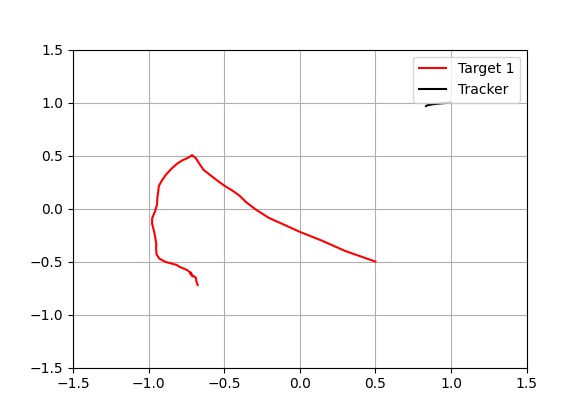
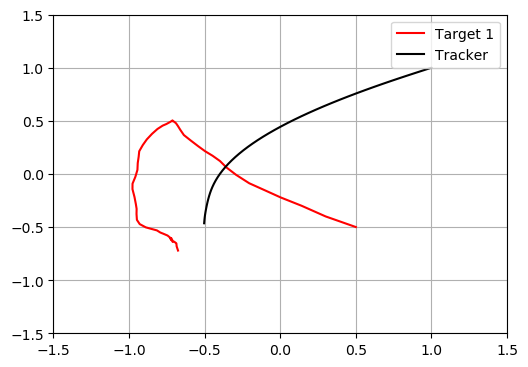
Ex1 debug + points plot

diff --git a/src/task_1/ex1.py b/src/task_1/ex1.py
@@ -1,3 +1,4 @@
+#%%
 import cvxpy as cp
 import numpy as np
 from scipy.io import loadmat
@@ -14,16 +15,16 @@ columns = ['x', 'y']
 df1 = pd.DataFrame(t1_data, columns=columns)
 
 
-T = 50
+T = 60
 A = np.array([ [1, 0, 0.2, 0], [0, 1, 0, 0.2], [0, 0, 0.8, 0], [0, 0, 0, 0.8] ])
 B = np.array([ [0, 0], [0, 0], [0.2, 0], [0, 0.2] ])
 x_0 = np.array([1, 1, 0, 0])
 E = np.array([ [1, 0, 0, 0], [0, 1, 0, 0] ])
-u = np.array([1, 1])
-y = 0.01
+y = 0.001
+
 x = cp.Variable((T, 4))
 u = cp.Variable((T-1, 2))
-cost = 0
+
 TE = 0
 CE = 0
 constr = [x[0] == x_0]
@@ -31,8 +32,7 @@ q1 = np.array(t1_data)
 
 for t in range(T-1):
     TE += cp.norm(E @ x[t] - q1[t], 'inf')
-    CE += y * cp.sum_squares(u[t])
-    cost = TE + CE
+    CE += cp.sum_squares(u[t])
     constr += [x[t + 1] == A @ x[t] + B @ u[t]]
 
 TE += cp.norm(E @ x[T-1] - q1[T-1], "inf")
@@ -46,37 +46,36 @@ dfx = pd.DataFrame(x.value[:,:2], columns=columns)
 print(CE.value)
 print(TE.value)
 
+"""
 # Plots
 
-# plt.figure(figsize=(46.82 * .5**(.5 * 6), 33.11 * .5**(.5 * 6))) # Magic image size line
+plt.figure(figsize=(46.82 * .5**(.5 * 6), 33.11 * .5**(.5 * 6))) # Magic image size line
 
-# it = 1
-# for frame in [df1, dfx]:
-#     if it == 1:
-#         lbl = "Target 1"
-#         col = "red"
-#     else:
-#         lbl = "Tracker"
-#         col = "black"
-#     plt.plot(frame['x'], frame['y'], label=lbl, color=col)
-#     it += 1
+it = 1
+for frame in [df1, dfx]:
+    if it == 1:
+        lbl = "Target 1"
+        col = "red"
+    else:
+        lbl = "Tracker"
+        col = "black"
+    plt.plot(frame['x'], frame['y'], label=lbl, color=col)
+    it += 1
 
-# plt.xlim(-1.5,1.5)
-# plt.ylim(-1.5,1.5)
-# plt.grid(True)
-# plt.legend()
-# plt.show()
+plt.xlim(-1.5,1.5)
+plt.ylim(-1.5,1.5)
+plt.grid(True)
+plt.legend()
+plt.show()
 
-labels = ['1', '2', '3', '4', '5', '6', '7', '8', '9']
-CE = [0.227, 1.488, 9.215, 8.639, 12.723, 16.016, 24.931, 12.465, 2.493]
-TE = [80.566, 69.326, 13.175, 9.421, 4.854, 3.943, 2.9, 2.9, 2.9]
+########################################################################
 
 x = np.arange(len(labels))  # the label locations
 width = 0.45 # the width of the bars
 
 fig, ax = plt.subplots()
-rects1 = ax.bar(x - width/2, CE, width, label='CE')
-rects2 = ax.bar(x + width/2, TE, width, label='TE')
+ax.bar(x - width/2, CE, width, label='CE')
+ax.bar(x + width/2, TE, width, label='TE')
 
 # Add some text for labels, title and custom x-axis tick labels, etc.
 ax.set_ylabel('Value')
@@ -84,9 +83,43 @@ ax.set_xlabel('Instance')
 ax.set_xticks(x, labels)
 ax.legend()
 
-ax.bar_label(rects1, padding=3)
-ax.bar_label(rects2, padding=3)
-
 fig.tight_layout()
 
 plt.show()
+"""
+
+labels = ['1', '2', '3', '4', '5', '6', '7', '8', '9']
+CE = [2.981210329541508,
+     5.388526746243271,
+     9.233349250500275,
+     12.005448231376263,
+     29.339285525446343,
+     43.2529144913541,
+     128.6437015896907,
+     203.98955726016038,
+     582.9180299652983]
+TE = [41.408539592113364,
+     23.366679214142316,
+     13.307673812335823,
+     11.396413931910457,
+     7.622319014254979,
+     6.6565729979752,
+     4.8544583139074495,
+     4.344685645983705,
+     3.549305998679128]
+
+plt.plot(TE, CE, 'ro', label=labels)
+plt.axis([0, 45, 0, 600])
+
+for i in range(9):
+    if i not in (2,3):
+        plt.text(TE[i]+0.5,CE[i]+2,"λ=%d"%(i+1))
+    elif i == 2:
+        plt.text(TE[i]+0.5,CE[i],"λ=%d"%(i+1))
+    else:
+        plt.text(TE[i]-0.5,CE[i]+10,"λ=%d"%(i+1))
+
+plt.grid(True)
+plt.show()
+
+# %%
